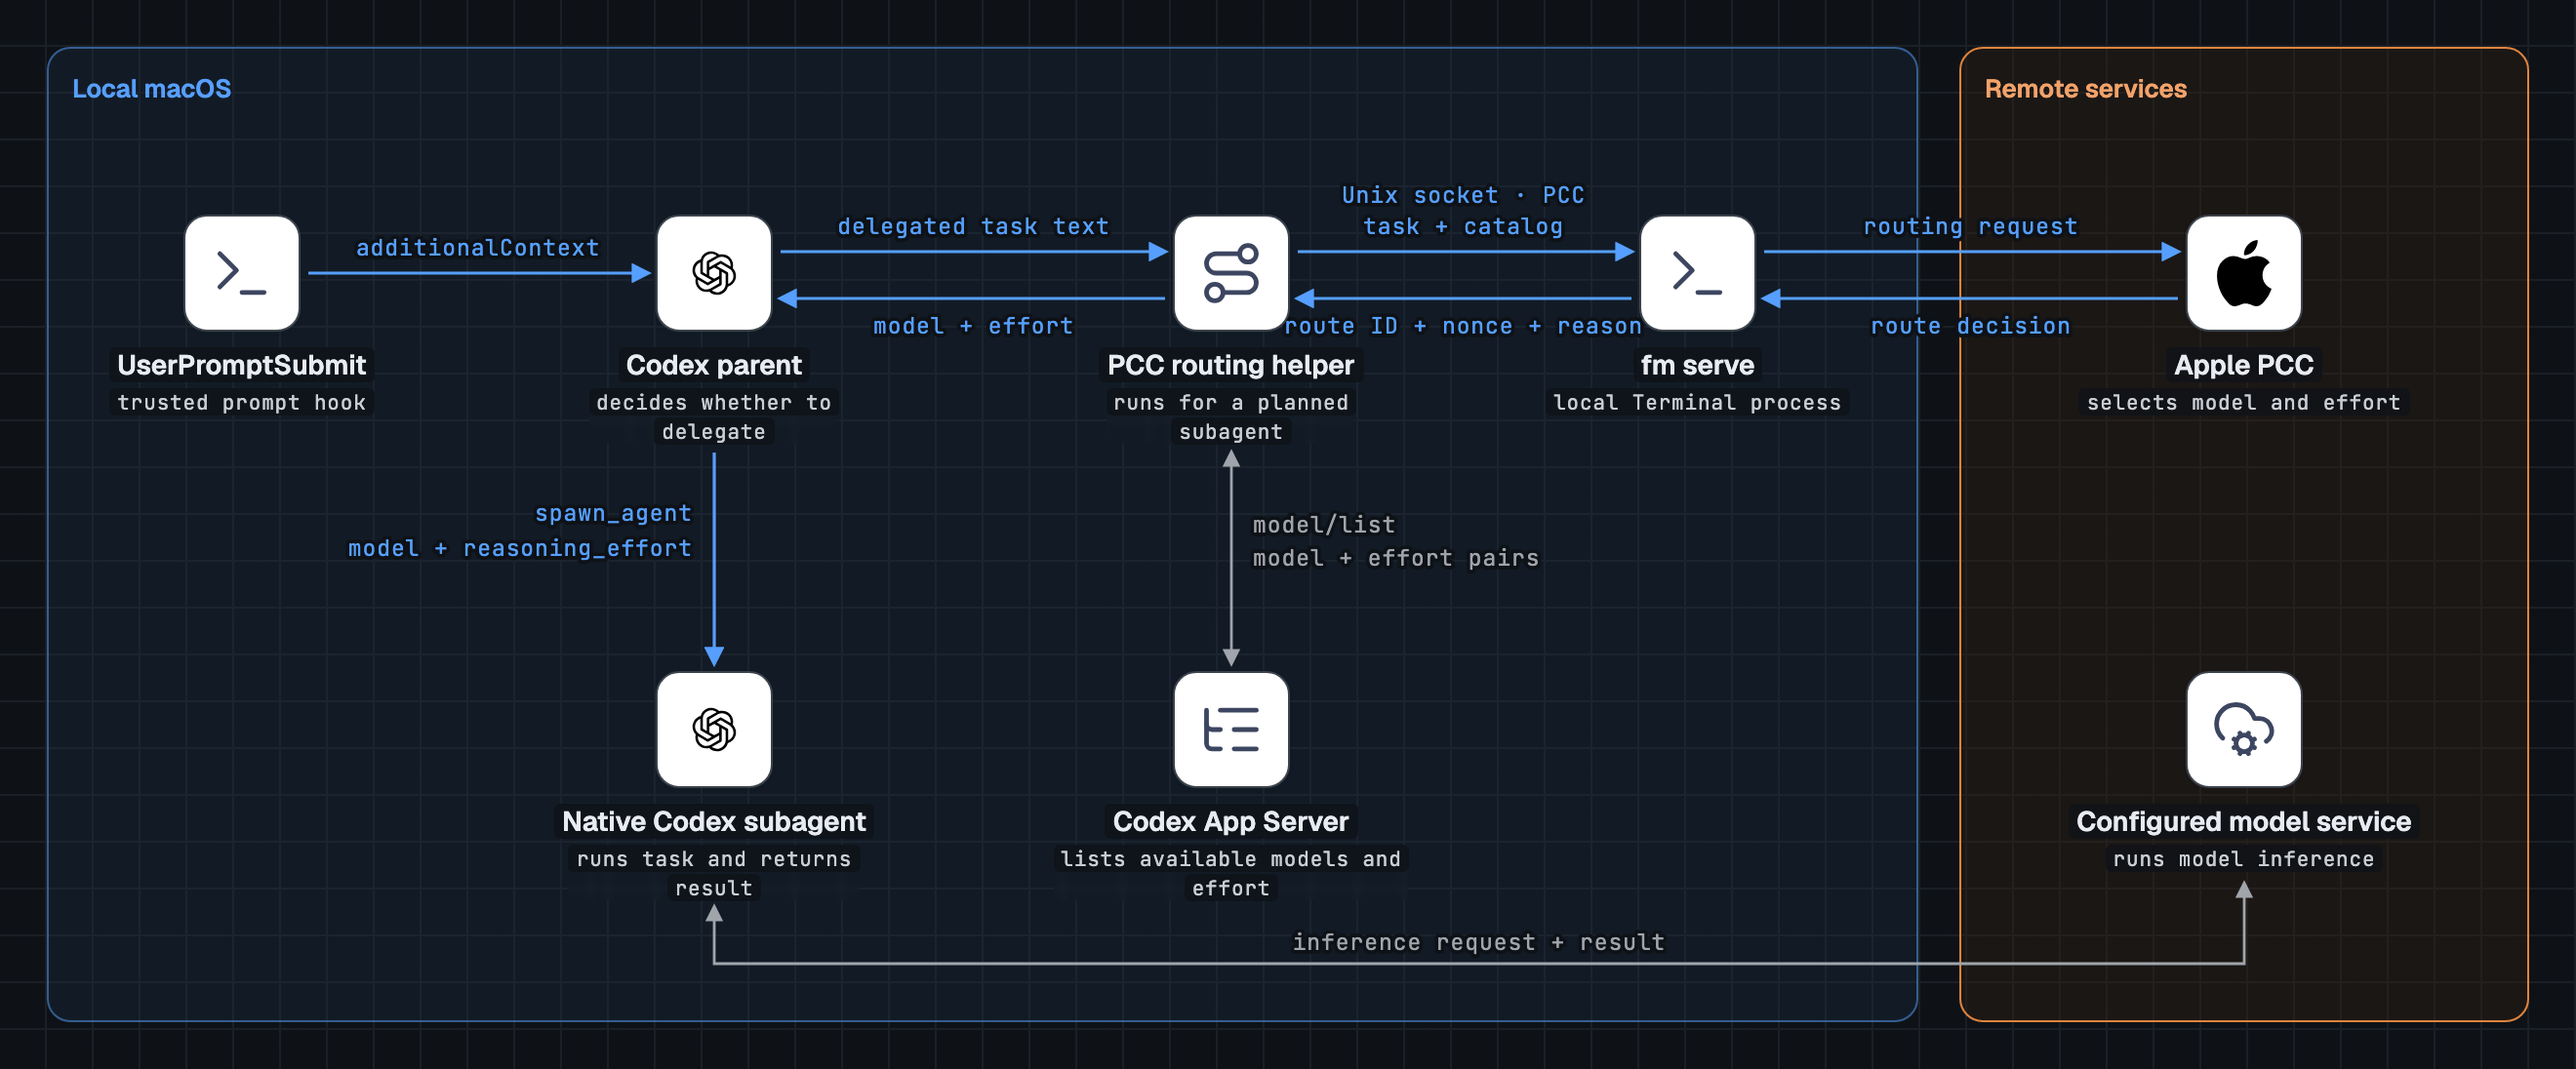
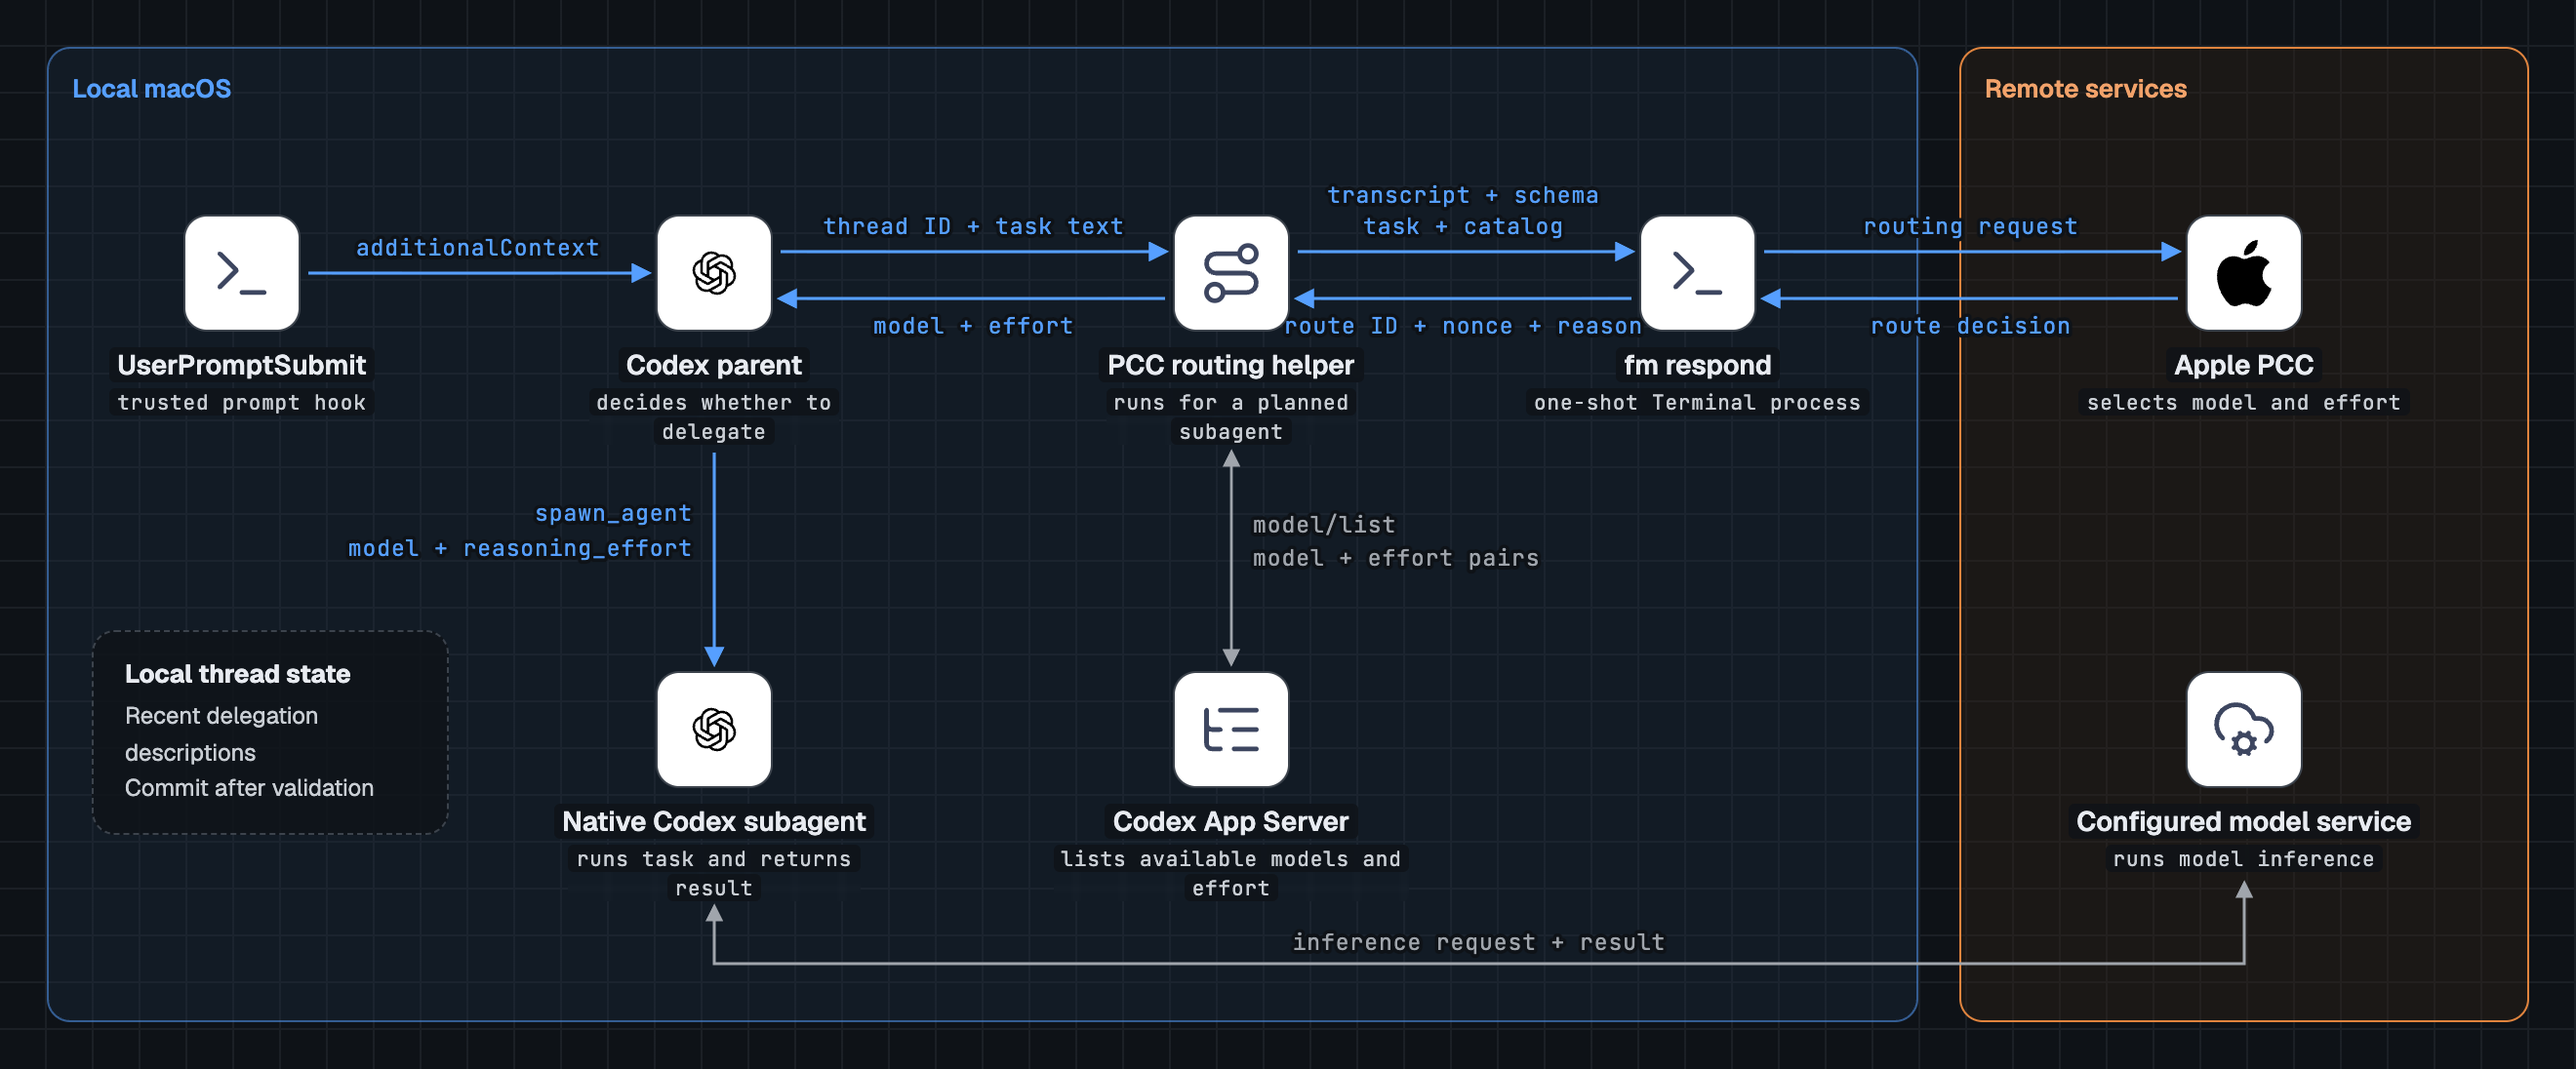
Document FM PCC Router 0.5.0

diff --git a/docs/architecture-codex.html b/docs/architecture-codex.html
@@ -180,7 +180,7 @@ path.aws { stroke: var(--color-ink); stroke-width:1.6; fill:none; }
   <div><div class="kicker">FM PCC Router / architecture</div><h1>Codex routing</h1></div>
   <p class="lede">Supplies routing guidance at prompt submission and selects a model when the parent plans to delegate.</p>
 </header>
-<div class="scroller"><div class="canvas" role="img" aria-label="On the Mac, UserPromptSubmit supplies guidance to the Codex parent. When delegation is planned, a local helper reads available model and effort pairs from App Server and requests a selection from Apple PCC through fm serve. The parent supplies the validated settings when spawning the native subagent.">
+<div class="scroller"><div class="canvas" role="img" aria-label="On the Mac, UserPromptSubmit supplies guidance to the Codex parent. When delegation is planned, a local helper reads available model and effort pairs from App Server and requests a selection from Apple PCC through fm respond. The parent supplies the validated settings when spawning the native subagent. Delegation history is scoped to the Codex thread.">
 <div class="group gb" style="left:24px;top:24px;width:959px;height:500px"><div class="g-label">Local macOS</div></div>
 <div class="group ga" style="left:1004px;top:24px;width:292px;height:500px"><div class="g-label">Remote services</div></div>
 <svg class="edges" viewBox="0 0 1320 548" aria-hidden="true">
@@ -188,11 +188,11 @@ path.aws { stroke: var(--color-ink); stroke-width:1.6; fill:none; }
 <path class="e" d="M158 140 H332" marker-end="url(#ar)"/>
 <text class="el a" x="245" y="131" text-anchor="middle">additionalContext</text>
 <path class="e" d="M400 129 H597" marker-end="url(#ar)"/>
-<text class="el a" x="499" y="120" text-anchor="middle">delegated task text</text>
+<text class="el a" x="499" y="120" text-anchor="middle">thread ID + task text</text>
 <path class="e" d="M597 153 H400" marker-end="url(#ar)"/>
 <text class="el a" x="499" y="171" text-anchor="middle">model + effort</text>
 <path class="e" d="M665 129 H836" marker-end="url(#ar)"/>
-<text class="el a" x="750" y="104" text-anchor="middle">Unix socket · PCC</text>
+<text class="el a" x="750" y="104" text-anchor="middle">transcript + schema</text>
 <text class="el a" x="750" y="120" text-anchor="middle">task + catalog</text>
 <path class="e" d="M836 153 H665" marker-end="url(#ar)"/>
 <text class="el a" x="750" y="171" text-anchor="middle">route ID + nonce + reason</text>
@@ -212,11 +212,12 @@ path.aws { stroke: var(--color-ink); stroke-width:1.6; fill:none; }
[9 lines of base64/hex data omitted]
+<div class="callout" style="left:47px;top:323px;width:183px"><h2>Local thread state</h2><p>Recent delegation descriptions<br>Commit after validation</p></div>
 </div></div>
 <div class="legend"><span><span class="sw"></span>routing</span><span><span class="sw n"></span>catalog lookup and inference</span></div>
 <div class="foot"><span>The hook supplies guidance locally. The explicit <code>fm-pcc-router</code> skill uses the same helper. <code>PostModelRequest</code> can verify the observed model.</span><span>icons: svgl / Lucide · made with <a href="https://github.com/caru-ini/stack-diagram" target="_blank" rel="noopener">stack-diagram</a></span></div>

diff --git a/docs/architecture-opencode.html b/docs/architecture-opencode.html
@@ -180,17 +180,17 @@ path.aws { stroke: var(--color-ink); stroke-width:1.6; fill:none; }
   <div><div class="kicker">FM PCC Router / architecture</div><h1>OpenCode routing</h1></div>
   <p class="lede">Selects an eligible provider, model, and variant for the current OpenCode session.</p>
 </header>
-<div class="scroller"><div class="canvas" role="img" aria-label="On the Mac, OpenCode supplies a prompt, limited context, and its connected provider catalog to the router. The local fm serve bridge requests a route from Apple PCC. OpenCode applies the result in its current session and sends the inference request to the selected provider.">
+<div class="scroller"><div class="canvas" role="img" aria-label="On the Mac, OpenCode supplies a prompt, limited context, and its connected provider catalog to the router. A one-shot fm respond call requests a route from Apple PCC. OpenCode applies the result in its current session and sends the inference request to the selected provider. The router keys local transcript state to the chat ID.">
 <div class="group gb" style="left:24px;top:24px;width:959px;height:500px"><div class="g-label">Local macOS</div></div>
 <div class="group ga" style="left:1004px;top:24px;width:292px;height:500px"><div class="g-label">Remote services</div></div>
 <svg class="edges" viewBox="0 0 1320 548" aria-hidden="true">
 <defs><marker id="ar" viewBox="0 0 10 10" refX="8" refY="5" markerWidth="6.5" markerHeight="6.5" orient="auto-start-reverse"><path d="M0 0 L10 5 L0 10 z" fill="context-stroke"/></marker></defs>
 <path class="e" d="M166 140 H391" marker-end="url(#ar)"/>
-<text class="el a" x="278" y="122" text-anchor="middle">prompt + limited context</text>
+<text class="el a" x="278" y="122" text-anchor="middle">chat ID + prompt context</text>
 <text class="el a" x="278" y="135" text-anchor="middle">connected routes</text>
 <path class="e" d="M459 130 H732" marker-end="url(#ar)"/>
-<text class="el a" x="596" y="107" text-anchor="middle">Unix socket · model=pcc</text>
-<text class="el a" x="596" y="122" text-anchor="middle">routing text + catalog</text>
+<text class="el a" x="596" y="107" text-anchor="middle">private transcript + schema</text>
+<text class="el a" x="596" y="122" text-anchor="middle">current task + catalog</text>
 <path class="e" d="M732 151 H459" marker-end="url(#ar)"/>
 <text class="el a" x="596" y="169" text-anchor="middle">route ID + nonce + reason</text>
 <path class="e" d="M800 130 H1116" marker-end="url(#ar)"/>
@@ -204,11 +204,12 @@ path.aws { stroke: var(--color-ink); stroke-width:1.6; fill:none; }
 </svg>
[7 lines of base64/hex data omitted]
+<div class="callout" style="left:55px;top:332px;width:226px"><h2>Local chat state</h2><p>Chat ID · bounded transcript<br>Commit after route validation</p></div>
 </div></div>
 <div class="legend"><span><span class="sw"></span>routing</span><span><span class="sw n"></span>catalog lookup and inference</span></div>
-<div class="foot"><span>The local bridge runs in a hidden Terminal window. A remote inference provider is shown.</span><span>icons: svgl / Lucide · made with <a href="https://github.com/caru-ini/stack-diagram" target="_blank" rel="noopener">stack-diagram</a></span></div>
+<div class="foot"><span>The temporary Terminal window closes after routing. A remote inference provider is shown.</span><span>icons: svgl / Lucide · made with <a href="https://github.com/caru-ini/stack-diagram" target="_blank" rel="noopener">stack-diagram</a></span></div>
 </div></body></html>

diff --git a/README.md b/README.md
@@ -4,9 +4,9 @@
 
 Uses Apple Foundation Models and Private Cloud Compute (PCC) to route OpenCode requests and select the model and reasoning effort of a Codex subagent.
 
-## How it uses `fm serve`
+## How routing works
 
-The router starts `fm serve` in a hidden Terminal window on the Mac. The bridge sends routing requests to Apple PCC. The selected provider runs the task's model inference.
+The router opens a temporary Terminal window and runs `fm respond --model pcc` once per routing decision. It supplies the routing input in a private transcript file and closes the window after the call. The selected provider runs the task's model inference.
 
 ### OpenCode
 
@@ -15,7 +15,7 @@ The router starts `fm serve` in a hidden Terminal window on the Mac. The bridge 
   <img alt="OpenCode routing across local macOS, Apple PCC, and the selected provider" src="docs/architecture-opencode.png">
 </picture>
 
-OpenCode applies the route to the current session and reuses the server while the plugin is loaded. Quitting OpenCode Desktop closes the router's server and Terminal window. Terminal itself quits only if the router launched it and no windows remain.
+OpenCode uses the current chat's recent history and keeps routing state keyed to that chat. A validated route is applied to the current session. Deleting a chat clears its local routing state.
 
 ### Codex
 
@@ -24,7 +24,7 @@ OpenCode applies the route to the current session and reuses the server while th
   <img alt="Codex delegation through the local prompt hook and router, Apple PCC, and the selected model service" src="docs/architecture-codex.png">
 </picture>
 
-The Codex helper starts the server when the parent requests a subagent route and shuts it down after selection.
+The Codex helper runs when the parent requests a subagent route. It reuses recent delegation descriptions from the same Codex thread when a thread ID is available.
 
 ## Requirements
 
@@ -41,7 +41,7 @@ cd fm-pcc-router
 node install.mjs
 ```
 
-Choose **OpenCode**, **Codex**, or **both** when prompted. To skip the prompt, pass `--target opencode`, `--target codex`, or `--target both`.
+Choose **OpenCode**, **Codex**, or **both** when prompted. To skip the prompt, pass `--target opencode`, `--target codex`, or `--target both`. To upgrade an existing installation, run `node install.mjs --uninstall` for the affected hosts before installing the new version.
 
 ### After installation
 
@@ -78,7 +78,9 @@ Run `/pcc-test` in an OpenCode chat to check PCC connectivity. This diagnostic d
 
 ## Privacy
 
-For routing, OpenCode sends the current request and limited recent conversation text. Codex sends the delegation message or the task explicitly supplied to `fm-pcc-router`. Both send eligible model metadata to Apple PCC. The router does not read attachments, repository files, or Codex transcripts. Keep sensitive content out of delegation messages and use the automatic hook only where sending task text to Apple PCC is permitted.
+For routing, OpenCode sends the current request and limited recent conversation text. Codex sends the current delegation description and any bounded history of prior delegations from the same thread. Both send eligible model metadata to Apple PCC. The router does not read attachments, repository files, or Codex transcripts. Keep sensitive content out of delegation messages and use the automatic hook only where sending task text to Apple PCC is permitted.
+
+Routing records are stored locally under `$XDG_STATE_HOME/fm-pcc-router/sessions` (default `~/.local/state/fm-pcc-router/sessions`). The saved context is limited to eight entries and 6,000 UTF-8 bytes per chat. The router ignores records older than seven days. To clear all saved routing history, remove this directory while the router is idle.
 
 ## Removal
 

diff --git a/docs/CHANGELOG.md b/docs/CHANGELOG.md
@@ -1,6 +1,12 @@
 # Changelog
 
-## Unreleased
+## 0.5.0
+
+### Routing transport
+
+- Run one-shot `fm respond` calls in a temporary Terminal window and close the window after each routing decision.
+- Track bounded transcript state by host and chat. Restore OpenCode context from the current chat and keep only delegation descriptions for Codex.
+- Validate the PCC decision before updating local state and reuse validated results for duplicate OpenCode prompt events.
 
 ### Installation and removal
 
@@ -15,7 +21,7 @@
 
 ### Documentation and licensing
 
-- Add separate OpenCode and Codex architecture diagrams that show how each integration uses `fm serve`.
+- Add separate OpenCode and Codex architecture diagrams that show the one-shot PCC call and local chat state.
 - License FM PCC Router under MIT and include the license with the installed skill and both integrations.
 
 ## 0.4.0
